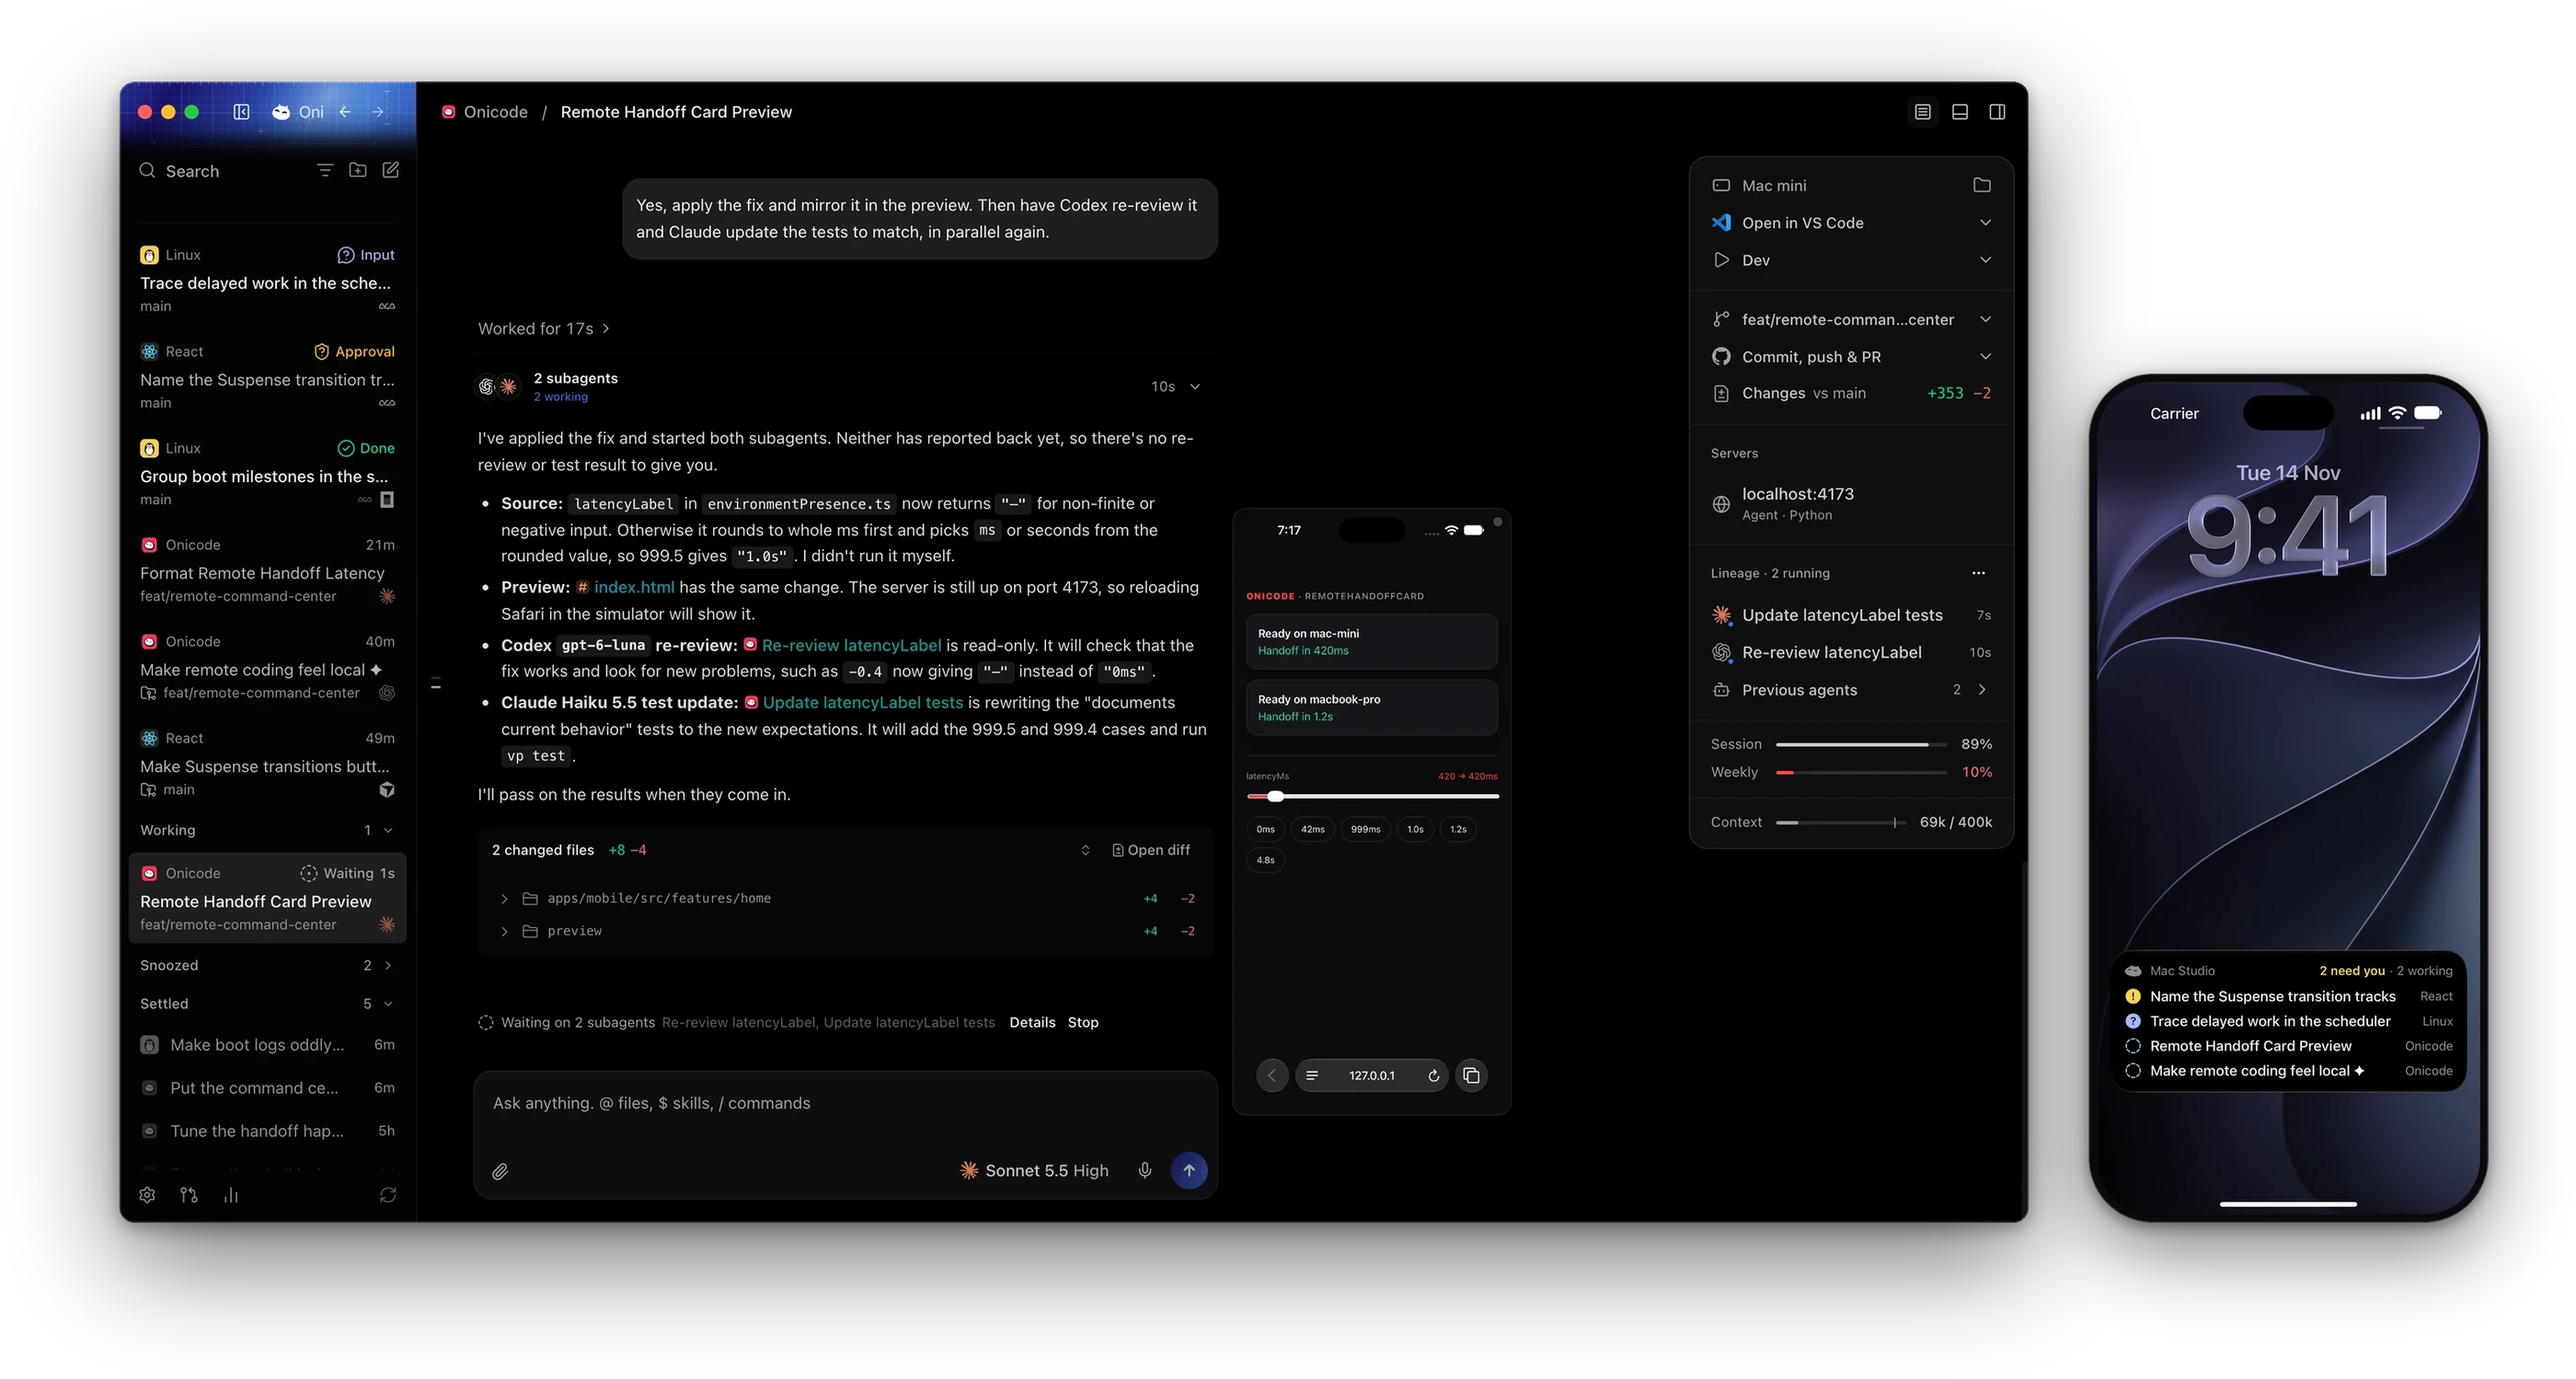
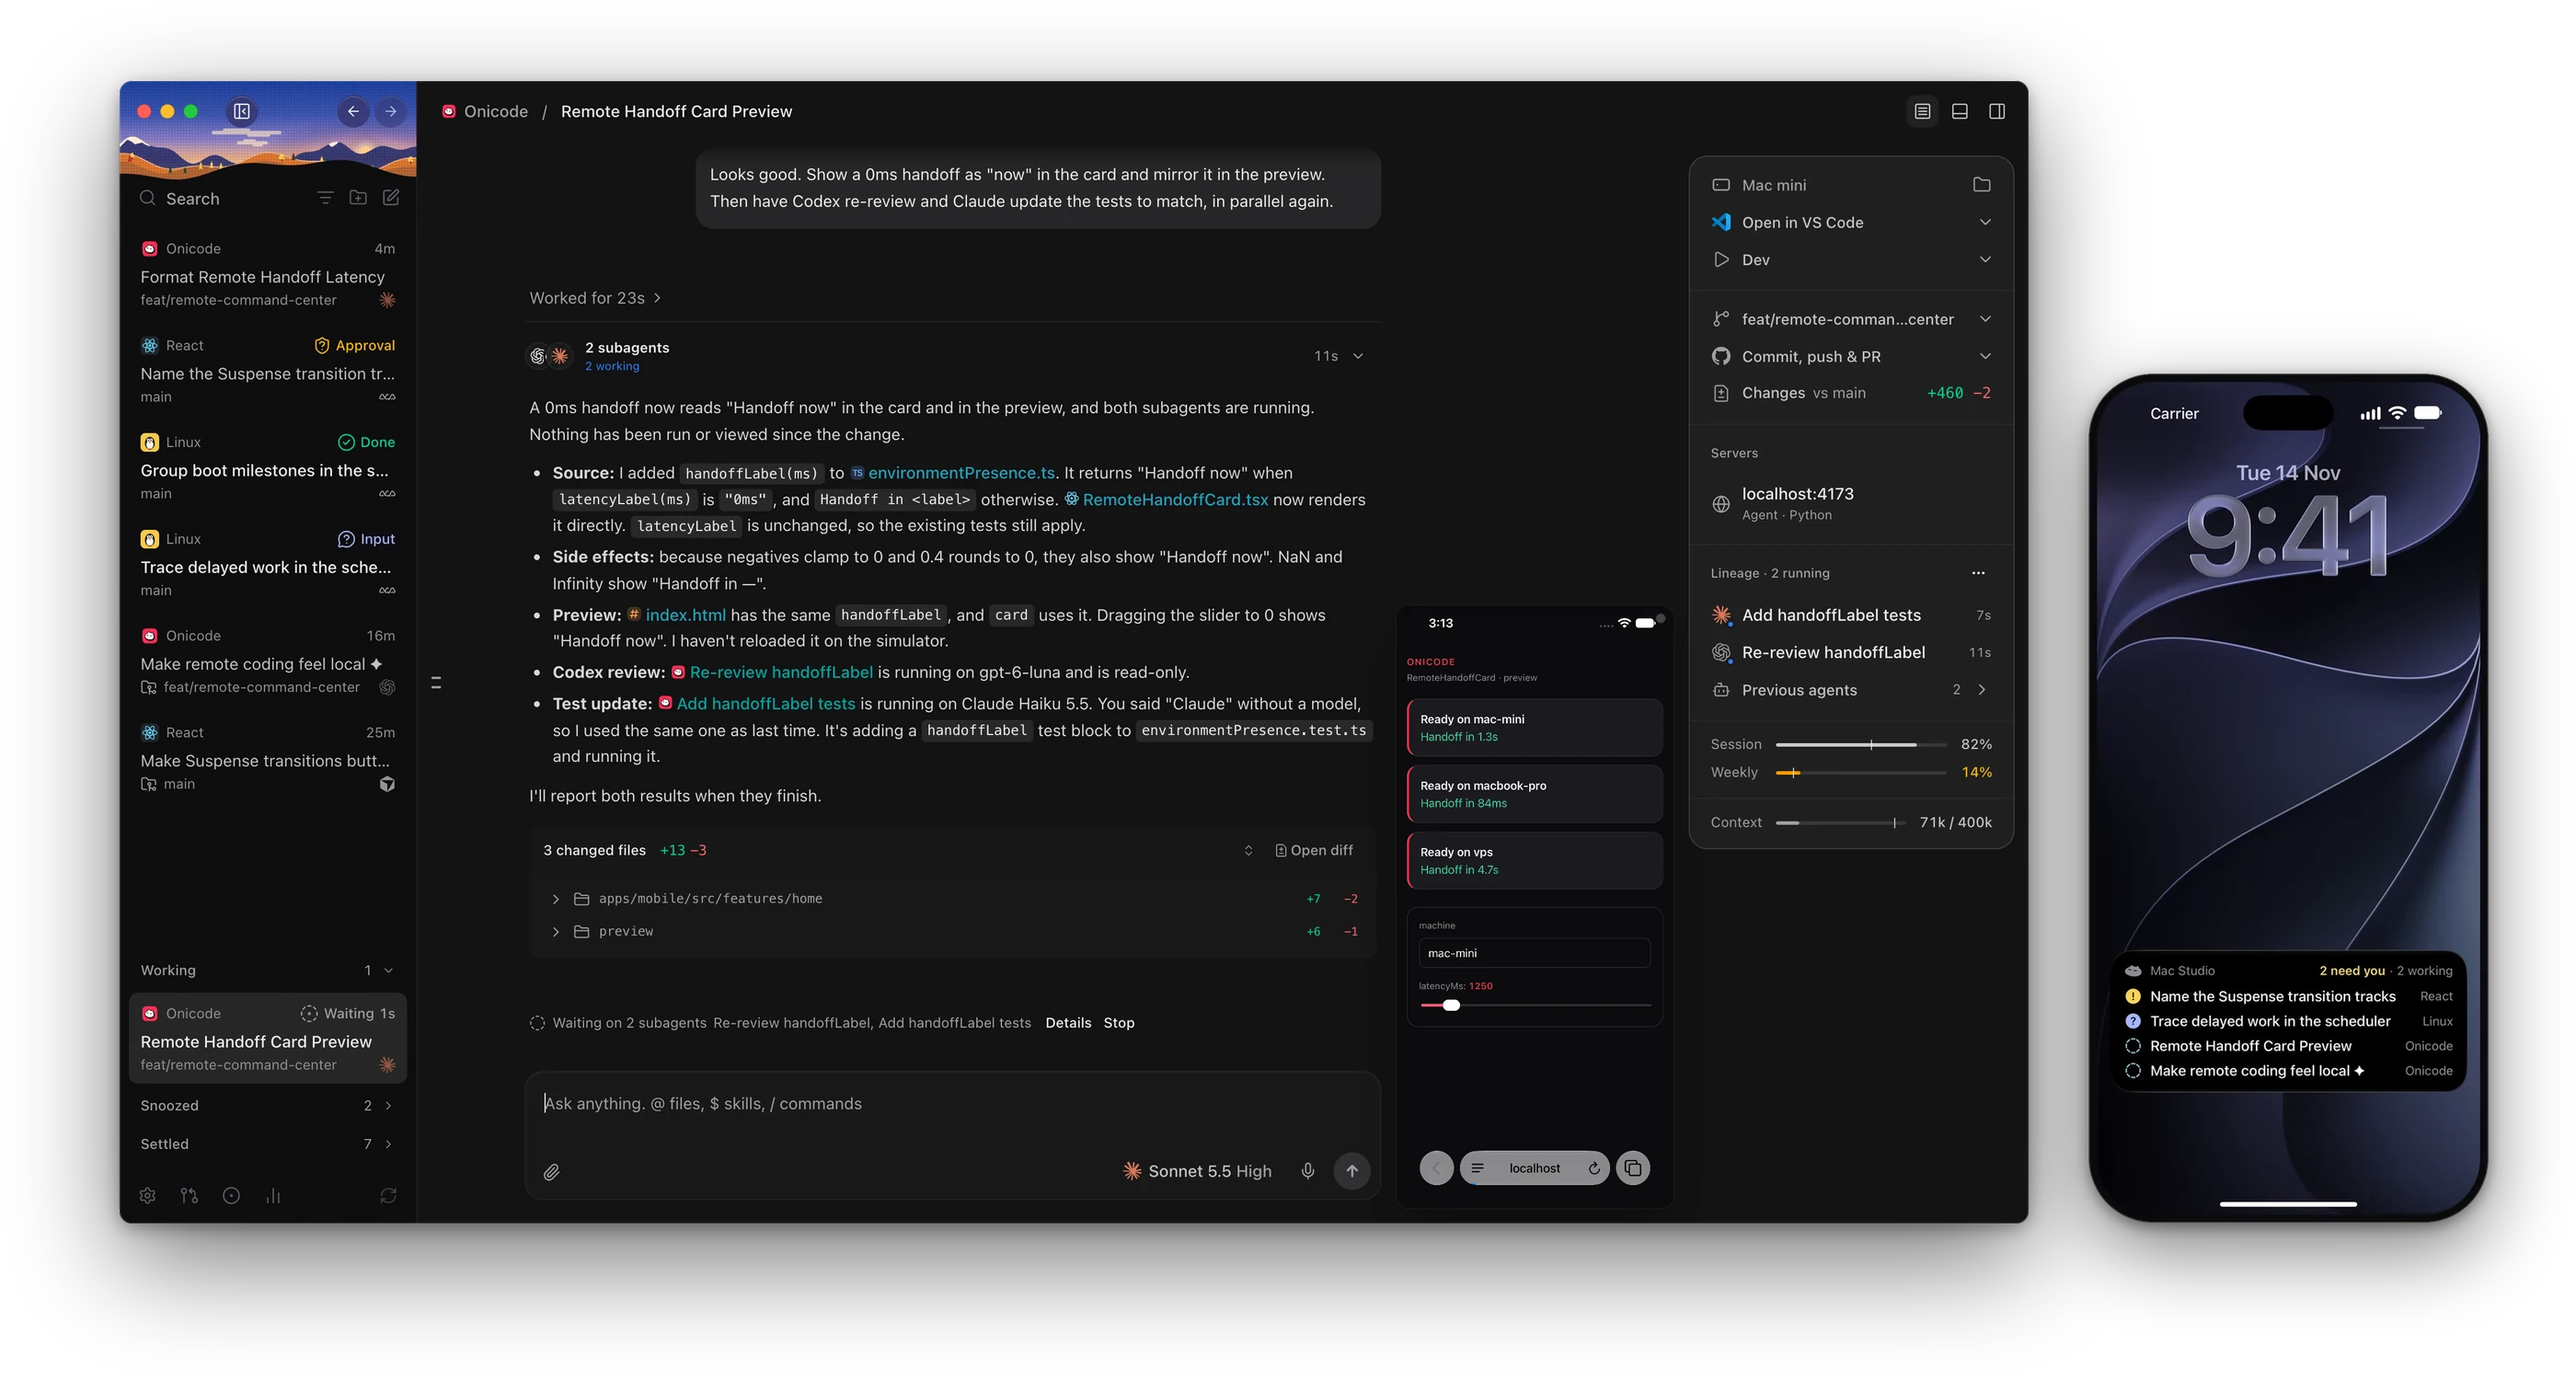
docs(readme): hero shows the seasonal sidebar scene

diff --git a/README.md b/README.md
@@ -3,7 +3,7 @@
 <p align="center"><b>Every coding agent, beautifully orchestrated, wherever you are.</b></p>
 
 <p align="center">
-  <img src="./assets/readme/hero.webp" alt="Onicode on desktop and iPhone. The desktop sidebar lists threads from three projects and several providers, some working and some waiting for approval or an answer. The open Claude thread waits on a Codex subagent and a Claude subagent while an iPhone simulator floats over the chat. Thread details show the branch, changes, a local server, the running subagents, usage limits and the context window. Beside the window, a Live Activity on an iPhone Lock Screen lists the same threads." />
+  <img src="./assets/readme/hero.webp" alt="Onicode on desktop and iPhone. The desktop sidebar, under an autumn sunset scene, lists threads from three projects and several providers, some working and some waiting for approval or an answer. The open Claude thread waits on a Codex subagent and a Claude subagent while an iPhone simulator floats over the chat. Thread details show the branch, changes, a local server, the running subagents, usage limits and the context window. Beside the window, a Live Activity on an iPhone Lock Screen lists the same threads." />
 </p>
 
 Onicode runs Claude Code, Codex, Cursor and [the rest](./docs/user/install.md#providers) on your own machine, and lets them work as one. A single thread can send a review to Codex and the tests to a lighter model, then carry on when both return. You steer from your desk or from your phone, in an app where a dropped frame counts as a bug.
